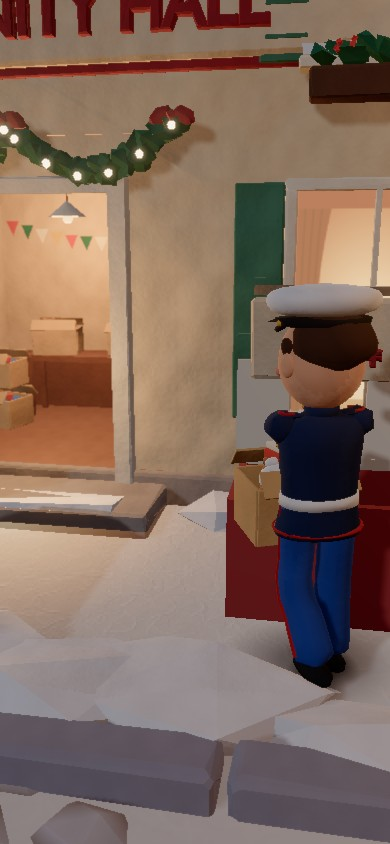
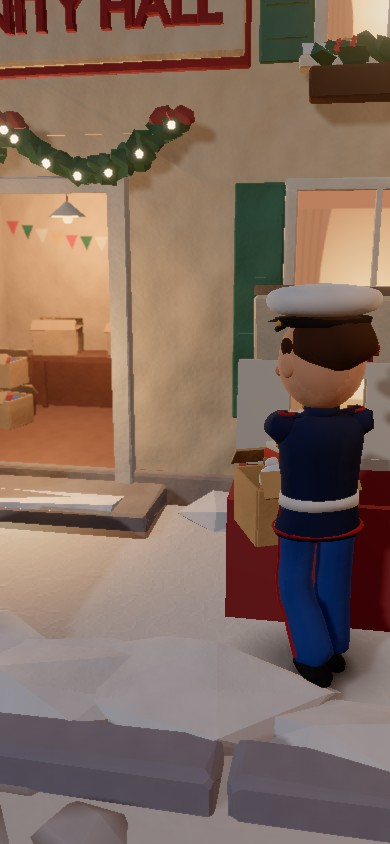
Milestone 2A: hall sign clear of the windows; the box lid no longer goes through its sign
From the owner's second review.

The "Community Hall" board ran across both upper windows. It is narrowed to the wall between the windows' inner shutters,
with the lettering scaled to fit.

The drop-off sign stood right behind the lid's hinge, so the opened lid passed through its board. The sign is moved back,
on a post of its own that reaches the ground. The lid stops on its hinge just past upright, short of the sign.

Checked on side views of the open lid and on the review shots; scene_m2a still 33 ok.

Claude-Session: https://claude.ai/code/session_017tNAHcpaXsDX6pdqSWLTrX

Changed region(s): [[0.0, 0.0, 1.0, 0.0924], [0.6154, 0.3389, 0.7077, 0.4621], [0.9231, 0.4005, 1.0, 0.4621]]

diff --git a/web/national/src/scene_donation.js b/web/national/src/scene_donation.js
@@ -188,6 +188,13 @@ export async function createDonation(town, { assets = './assets/', b64 = null, t
     src.parent.add(piece); piece.position.copy(src.position); piece.quaternion.copy(src.quaternion); piece.scale.copy(src.scale); piece.updateMatrixWorld(true);
     return piece;
   }
+  // reshape(): move a carved piece's corners in town units (f takes and changes a town-space point)
+  function reshape(piece, f) {
+    if (!piece) return; root.updateMatrixWorld(true);
+    const P = piece.geometry.attributes.position, v = V(), used = new Set(piece.geometry.index.array);
+    for (const i of used) { v.fromBufferAttribute(P, i); piece.localToWorld(v); root.worldToLocal(v); f(v); root.localToWorld(v); piece.worldToLocal(v); P.setXYZ(i, v.x, v.y, v.z); }
+    P.needsUpdate = true; piece.geometry.computeBoundingBox(); piece.geometry.computeBoundingSphere();
+  }
 
   // punch(): a hole through a mesh's front face (its triangles with every corner in front of zMin), for the hall's door.
   // The hall's wall is one solid lump of clay; the triangles over the doorway are cut against the opening's rectangle
@@ -269,7 +276,18 @@ export async function createDonation(town, { assets = './assets/', b64 = null, t
   lidPart((BOX.w + 0.05 - slotW) / 2, slotD, -(slotW / 2 + (BOX.w + 0.05 - slotW) / 4), slotZ);   // left of it
   lidPart((BOX.w + 0.05 - slotW) / 2, slotD, (slotW / 2 + (BOX.w + 0.05 - slotW) / 4), slotZ);    // right of it
   { const lip = slab(BOX.w * 0.4, 0.035, 0.04, creamMat); lip.position.set(0, LT * 0.35, LD + 0.02); lidPivot.add(lip); }   // the front lip the hand takes
-  const LID_OPEN = Math.PI / 2 + 0.05;                                            // just past upright: resting on the sign
+  const LID_OPEN = Math.PI / 2 + 0.12;                                            // just past upright, held by its hinge stop
+  // The drop-off sign stood right behind the hinge, so the opened lid went through its board. Move the sign (post, board,
+  // lettering) back so the lid, tipped just past upright, stops a finger's width short of it; a new post reaches the
+  // ground, since the old one stood on the box's back strip.
+  { const SIGN_BACK = 0.185, reg = (y0) => [BOX.x - 0.55, BOX.x + 0.55, y0, 1.8, BOX_BACK - 0.05, BOX_BACK + 0.2];
+    for (const n of ['SignBoard', 'SignLetters', 'CreamWood']) reshape(carve(n, reg(n === 'CreamWood' ? 0.6 : 1.2), true), (v) => { v.z -= SIGN_BACK; });
+    const post = slab(0.06, 0.7, 0.06, creamMat); post.position.set(0, 0.35, 0.93 - SIGN_BACK - BOX.z); box.add(post); }   // (the old post's centre was at town z 0.93)
+  // The hall's name board ran across both upper windows. Narrow the board and its red edge to the wall between the
+  // windows' inner shutters, and scale the lettering to fit (keeping its proportions).
+  { const reg = [-3, 3, 3.1, 4.0, -0.1, 0.2], CY = 3.57, HALF = 1.7;
+    for (const n of ['SignBoard', 'SignEdge']) reshape(carve(n, reg, true), (v) => { v.x *= HALF / 2.875; });
+    reshape(carve('SignLetters', reg, true), (v) => { const k = 0.83; v.x *= k; v.y = CY + (v.y - CY) * k; v.z = 0.06 + (v.z - 0.06) * k; }); }
   // the carton of donated toys, on the box's floor
   box.add(carton); carton.position.set(0, CARTON_BASE, 0); carton.rotation.set(0, 0, 0);
   const cartonHome = () => box.localToWorld(V(0, CARTON_BASE, 0));                 // (town units, via root below)
@@ -634,7 +652,7 @@ export async function createDonation(town, { assets = './assets/', b64 = null, t
     const tidy = ramp((w % 7.0), 1.2, 1.6) * (1 - ramp((w % 7.0), 2.8, 3.2));
     if (tc > T.mWalk0) { const m = walker(M_PATH, LM, vM, T.mWalk0, tc, YAW_BOX, marine.stride, my); mp = m.p; my = m.yaw; mw = walkW(m); mph = m.phase; }
     // the lid: taken at its front lip, lifted to the vertical, let go; it falls open against its stay and rests
-    // (let go short of upright, it tips over under its own weight and knocks against the sign's board, once, softly)
+    // (let go short of upright, it tips over under its own weight and bounces once, softly, on its hinge stop)
     if (tc > T.lid0) { const u = tc - T.lidGo, kf = clamp(u / 0.28);
       lid = tc < T.lid1 ? 1.2 * smooth((tc - T.lid0) / (T.lid1 - T.lid0)) : tc < T.lidGo ? 1.2
         : u < 0.28 ? 1.2 + (LID_OPEN - 1.2) * kf * kf : LID_OPEN - 0.07 * Math.exp(-6 * (u - 0.28)) * Math.abs(Math.sin(11 * (u - 0.28))); }

diff --git a/docs/MILESTONE2A.md b/docs/MILESTONE2A.md
@@ -92,6 +92,10 @@ frames (desktop and phone), not only on the test log.
 - **The cobbles** are pressed lower and shaded as rounded pebbles rather than facets, in a softer colour, with snow on their tops.
 - **The puppets** get a gentle hand-pressed unevenness (silhouette and shading), and a faint clay "boil" that changes on twos.
 
+**Second review (19 November):**
+- **Hall sign:** the "Community Hall" board ran across both upper windows. It is now narrowed to the wall between the windows' inner shutters, with the lettering scaled to fit.
+- **Drop-off box:** the opened lid went through the drop-off sign behind the box. The sign (post, board and lettering) now stands 0.185 further back, on a post of its own reaching the ground. The lid stops on its hinge just past upright, a finger's width short of it.
+
 **Not yet done:** the cinematic interface (the story card and the chapter bar still sit over the scene), faces and blinks, sound. The interface is the planned next step.
 
 ## Tests
